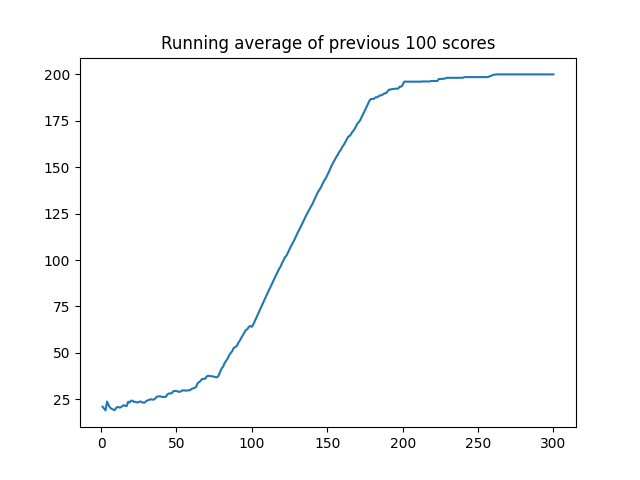
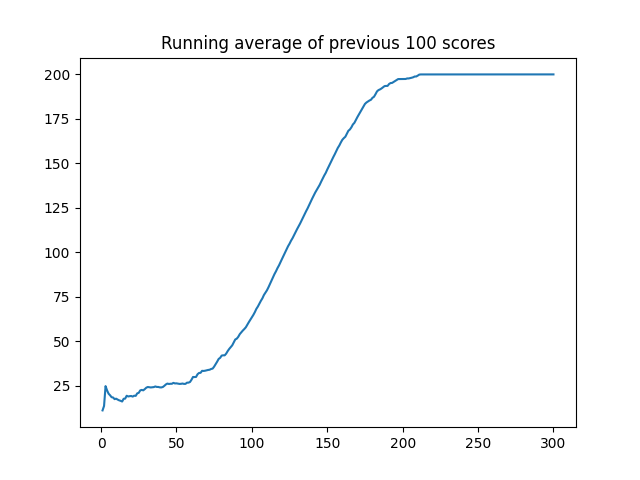
meilleur résultat pour l'instant

diff --git a/ppo_algorithm.py b/ppo_algorithm.py
@@ -86,7 +86,7 @@ class AgentConfig:
     eps_clip = 0.2
     batch_size = 5
     n_epochs = 4
-    vf_coef = 1
+    vf_coef = 0.5
     entropy_coef = 0.01
     target_kl_div = 0.01
 
@@ -192,7 +192,7 @@ def plot_learning_curve(x, scores, figure_file):
 
 if __name__ == '__main__':
     env = gym.make('CartPole-v0')
-    N = 20
+    N = 25
     batch_size=8
     agent = Agent(n_actions=env.action_space.n, input_dims=env.observation_space.shape, actor_alpha=3e-4, critic_alpha=1e-3)
 
